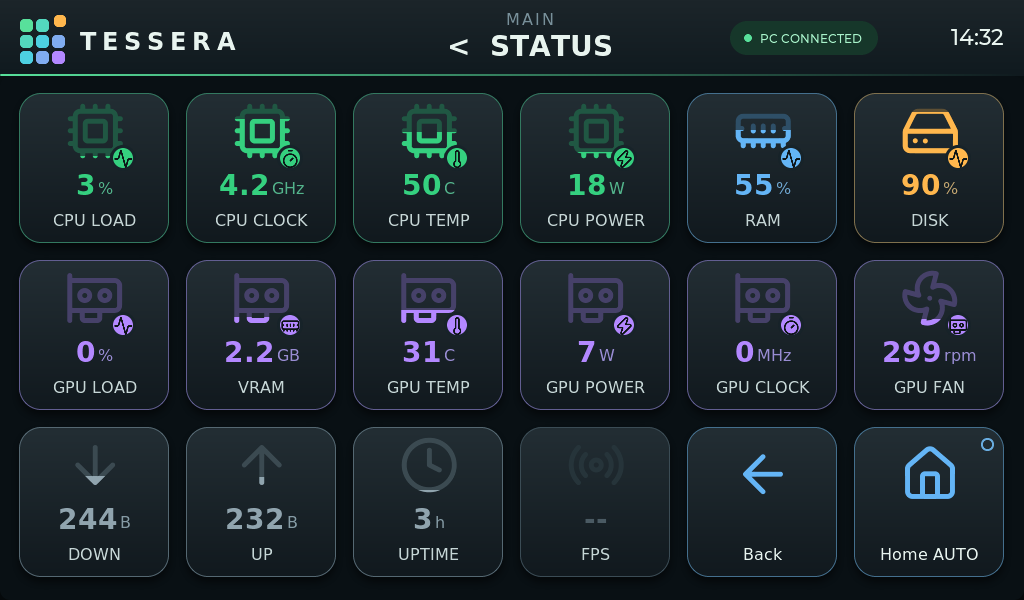
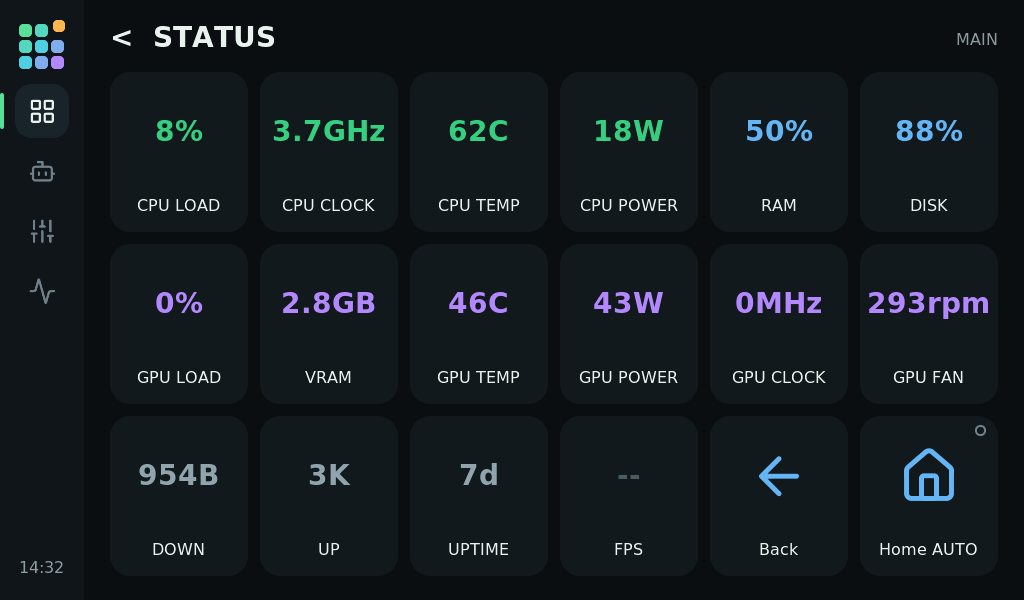
docs: new screenshots; widget text fits the panel (no arrows, shorter memory and date lines)

diff --git a/host/editor/cockpit.css b/host/editor/cockpit.css
@@ -290,3 +290,4 @@ html body .library .program-launcher{width:100%;margin-bottom:8px}
 /* Drop-down lists: dark, readable options everywhere (the big profile title used light text on a white list). */
 html body select{color-scheme:dark}
 html body select option,html body select optgroup{background:#12191D !important;color:#EAF2EF !important;font-size:14px;font-weight:400}
+html body #inspector .size-pick{margin-bottom:8px}

diff --git a/tests/test_wide_keys.py b/tests/test_wide_keys.py
@@ -72,14 +72,14 @@ class WidgetTests(HostCase):
 
     def test_the_clock_shows_the_time_the_date_and_how_far_the_day_is(self):
         entry = widgets.content('clock', datetime(2026, 11, 10, 12, 0, 0), {}, {}, {})
-        self.assertEqual((entry['label'], entry['sub'], entry['progress']), ('12:00', 'Tuesday 10 November', 50))
+        self.assertEqual((entry['label'], entry['sub'], entry['progress']), ('12:00', 'Tuesday 10 Nov', 50))
 
     def test_readings_fill_the_bar_and_a_missing_reading_says_so(self):
         entry = widgets.content('cpu', datetime.now(), {'cpu_load': 41.6, 'cpu_temp': 63.2, 'cpu_clock': 4200}, {}, {})
         self.assertEqual((entry['label'], entry['sub'], entry['progress']), ('CPU 42%', '63 °C · 4.2 GHz', 42))
         self.assertEqual(widgets.content('gpu', datetime.now(), {}, {}, {}), {'label': 'GPU', 'sub': 'No reading'})
         self.assertEqual(widgets.content('network', datetime.now(), {'net_down': 3 * 1024 * 1024, 'net_up': 512}, {}, {}),
-                         {'label': '↓ 3.0 MB/s', 'sub': '↑ 512 B/s'})
+                         {'label': '3.0 MB/s', 'sub': 'Down · up 512 B/s'})
 
     def test_volume_and_agents(self):
         entry = widgets.content('volume', datetime.now(), {}, {'volume': 40, 'speaker_muted': True, 'mic_muted': False}, {})
@@ -93,7 +93,7 @@ class WidgetTests(HostCase):
         daemon.profile, daemon.page = 'main', 'wide'
         daemon.stats.raw = {'ram': 61.0}
         entry = daemon.current_buttons()[0]
-        self.assertEqual((entry['span'], entry['label'], entry['progress']), (2, 'Memory 61%', 61))
+        self.assertEqual((entry['span'], entry['label'], entry['progress']), (2, 'RAM 61%', 61))
 
 
 if __name__ == '__main__':

diff --git a/host/widgets.py b/host/widgets.py
@@ -44,7 +44,7 @@ def content(kind: str, now: datetime, raw: dict, audio: dict, agents: dict) -> d
     """The fields a wide key gets for this widget; an unknown kind gives nothing."""
     if kind == 'clock':
         day = (now.hour * 3600 + now.minute * 60 + now.second) / 864
-        return {'label': now.strftime('%H:%M'), 'sub': now.strftime('%A %d %B').replace(' 0', ' '), 'progress': _percent(day)}
+        return {'label': now.strftime('%H:%M'), 'sub': now.strftime('%A %d %b').replace(' 0', ' '), 'progress': _percent(day)}
     if kind == 'date':
         return {'label': now.strftime('%a %d %b').replace(' 0', ' '), 'sub': f'Week {now.isocalendar()[1]} · day {now.timetuple().tm_yday}'}
     if kind == 'cpu':
@@ -54,9 +54,9 @@ def content(kind: str, now: datetime, raw: dict, audio: dict, agents: dict) -> d
         return _load('GPU', raw, 'gpu_load', 'gpu_temp', f'{raw["fps"]:.0f} fps' if raw.get('fps') else '')
     if kind == 'ram':
         value = raw.get('ram')
-        return {'label': 'Memory', 'sub': 'No reading'} if value is None else {'label': f'Memory {value:.0f}%', 'sub': 'In use', 'progress': _percent(value)}
+        return {'label': 'RAM', 'sub': 'No reading'} if value is None else {'label': f'RAM {value:.0f}%', 'sub': 'Memory in use', 'progress': _percent(value)}
     if kind == 'network':
-        return {'label': '↓ ' + _rate(raw.get('net_down') or 0), 'sub': '↑ ' + _rate(raw.get('net_up') or 0)}
+        return {'label': _rate(raw.get('net_down') or 0), 'sub': 'Down · up ' + _rate(raw.get('net_up') or 0)}  # the panel font has no arrows
     if kind == 'volume':
         level = audio.get('volume')
         if level is None:

diff --git a/docs/FEATURES.md b/docs/FEATURES.md
@@ -2,8 +2,8 @@
 
 [Back to the README](../README.md)
 
-Tessera turns the 1024 × 600 touchscreen of the **GUITION 7-inch ESP32-P4 display board** into an 18-key control surface:
-launch apps, fire hotkeys, drive Codex and Claude Code, watch live system gauges and run multi-step macros.
+Tessera turns the 1024 × 600 touchscreen of the **GUITION 7-inch ESP32-P4 display board** into an 18-key control surface with
+four screens: launch apps, fire hotkeys, drive Codex and Claude Code, mix the sound, watch live system gauges and run multi-step macros.
 A small Windows host owns the USB connection, runs the actions and serves a drag-and-drop editor that shows the
 same keys as the panel.
 
@@ -11,15 +11,23 @@ same keys as the panel.
   <img src="images/editor-main.png" alt="The Tessera editor: the keys of the panel, the settings of the selected key and the action list" width="900">
 </p>
 
-| Editor — status page with live gauges | Editor — system page |
+| Editor — a page of widgets | Editor — status page with live gauges |
 |---|---|
-| <img src="images/editor-status.png" alt="Status page with live gauges in the editor"> | <img src="images/editor-system.png" alt="System page in the editor"> |
+| <img src="images/editor-widgets.png" alt="A page of widgets in the editor, with the key settings in tabs"> | <img src="images/editor-status.png" alt="Status page with live gauges in the editor"> |
 
-| Panel — status page | Panel — main page |
+| Panel — main page | Panel — widgets on wide keys |
 |---|---|
-| <img src="images/panel-status.png" alt="Status page drawn by the panel firmware UI"> | <img src="images/panel-main.png" alt="Main page drawn by the panel firmware UI"> |
+| <img src="images/panel-main.png" alt="Main page drawn by the panel firmware UI"> | <img src="images/panel-widgets.png" alt="Clock, date, volume, processor, graphics card, memory, network and AI agents widgets"> |
 
-*The editor images show the real editor with this PC's sensor values. The panel images are drawn by the real firmware UI (LVGL) in a native build with `tools/render_screens.py`, not photographed.*
+| Panel — agents screen | Panel — mixer screen |
+|---|---|
+| <img src="images/panel-agents.png" alt="Claude Code asks for permission; Deny and Allow answer it"> | <img src="images/panel-mixer.png" alt="Faders for the speakers, three programs and the microphone"> |
+
+| Panel — status page |  |
+|---|---|
+| <img src="images/panel-status.png" alt="Status page drawn by the panel firmware UI"> |  |
+
+*The editor images show the real editor with this PC's sensor values. The panel images are drawn by the real firmware UI (LVGL) in a native build, not photographed: the key pages with `tools/render_screens.py`, the agents and mixer screens by the native UI test with sample data.*
 
 ### On the panel
 

diff --git a/README.md b/README.md
@@ -19,13 +19,21 @@
   <img src="docs/images/panel-main.png" alt="The main page on the panel, with real app icons" width="760">
 </p>
 
-18 touch keys for your apps, hotkeys and macros, with live PC gauges and a drag-and-drop editor. Everything runs locally over USB.
+18 touch keys for your apps, hotkeys and macros, with widgets, live PC gauges, an AI agents screen, a sound mixer and a drag-and-drop editor. Everything runs locally over USB.
 
-| Live status page | The editor |
+| Widgets on wide keys | Answer Claude Code from the panel |
 |---|---|
-| <img src="docs/images/panel-status.png" alt="Status page with live gauges, drawn by the panel firmware UI"> | <img src="docs/images/editor-status.png" alt="The editor: keys on top, settings under them, actions on the right"> |
+| <img src="docs/images/panel-widgets.png" alt="Widgets on wide keys: clock, date, volume, processor, graphics card, memory, network and AI agents"> | <img src="docs/images/panel-agents.png" alt="The agents screen: Claude Code asks for permission, with Deny and Allow"> |
 
-<sub>Panel images are drawn by the real firmware UI in a native build, not photographed.</sub>
+| Sound mixer | Live status page |
+|---|---|
+| <img src="docs/images/panel-mixer.png" alt="The mixer screen: faders for the speakers, three programs and the microphone"> | <img src="docs/images/panel-status.png" alt="Status page with live gauges"> |
+
+<p align="center">
+  <img src="docs/images/editor-widgets.png" alt="The editor: the rail, the keys with their page tabs, the selected key's settings and the action list" width="900">
+</p>
+
+<sub>Panel images are drawn by the real firmware UI in a native build, not photographed. The agents and mixer screens show sample data.</sub>
 
 > [!IMPORTANT]
 > **Made for one board:** the [GUITION 7-inch ESP32-P4 display dev board](https://www.aliexpress.com/item/1005010022828767.html) (1024 × 600). Other boards need porting. You also need a Windows 10/11 PC and a USB cable.

diff --git a/CHANGELOG.md b/CHANGELOG.md
@@ -14,6 +14,7 @@
 - A host started outside the editor (a terminal, a script) is recognised from its runtime file, so the editor no longer says "The host has stopped" while one holds the USB port.
 - A key that opens a running program now brings its window to the front even when Windows refuses a background program the focus; before, the taskbar button only flashed.
 - Rail dialog: the switches and the up/down buttons work (every one of them was disabled).
+- New screenshots in the README and the feature list: widgets, the agents and mixer screens and the tidied editor.
 - Editor: everything is drawn 15% smaller.
 - Editor: the key card has room for everything (the preview beside the title and icon, every other setting full width), and the key's size is picked with three buttons: Normal, Wide, Extra wide.
 - Editor: moving, pasting or duplicating a wide key checks that it fits on its row without covering another key; otherwise it is refused (move) or pasted as a normal key. Heights follow the editor's zoom, so the rail's + and the bottom of every column stay in view; on wide windows the key's settings sit in their own column.
